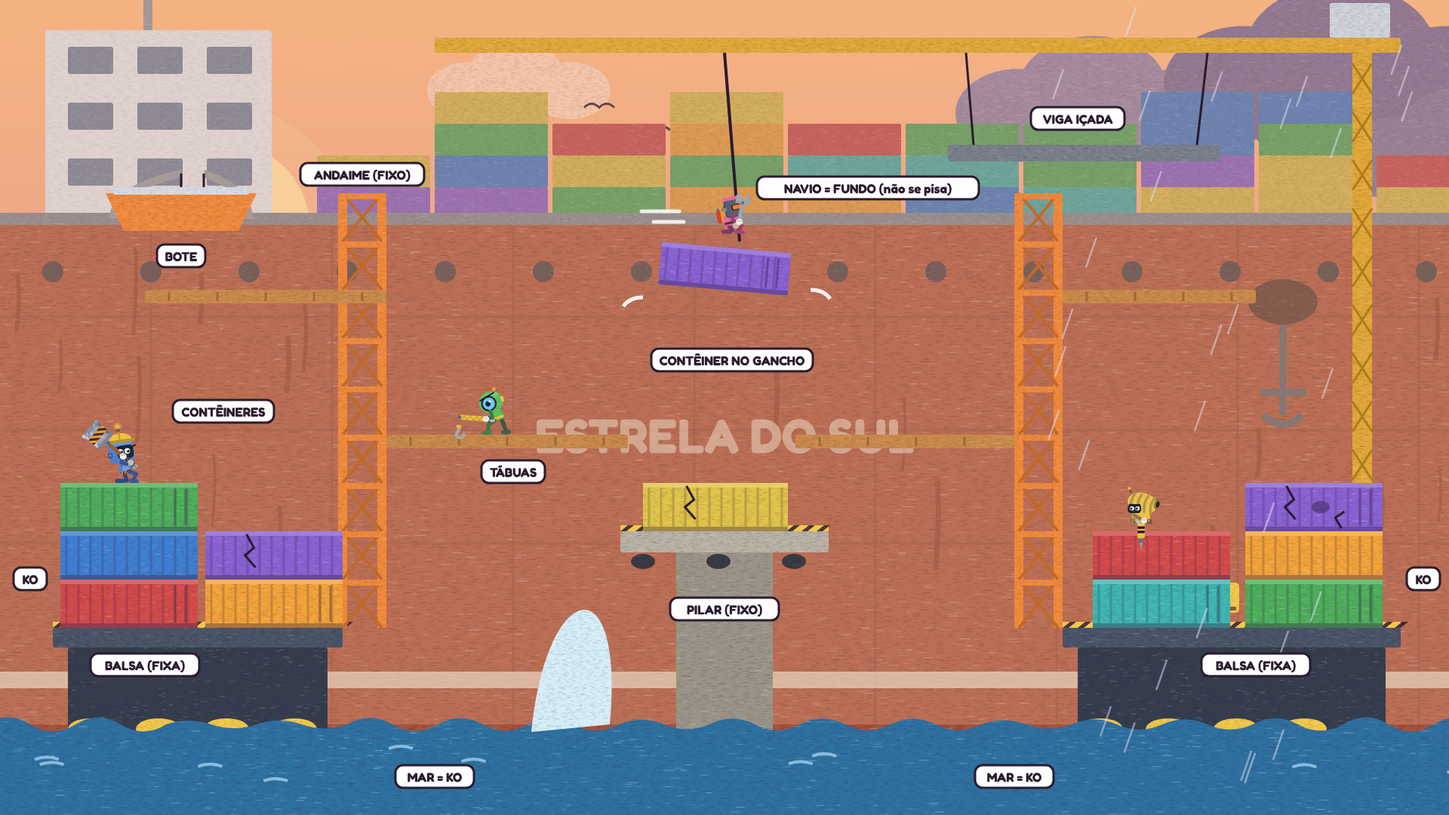
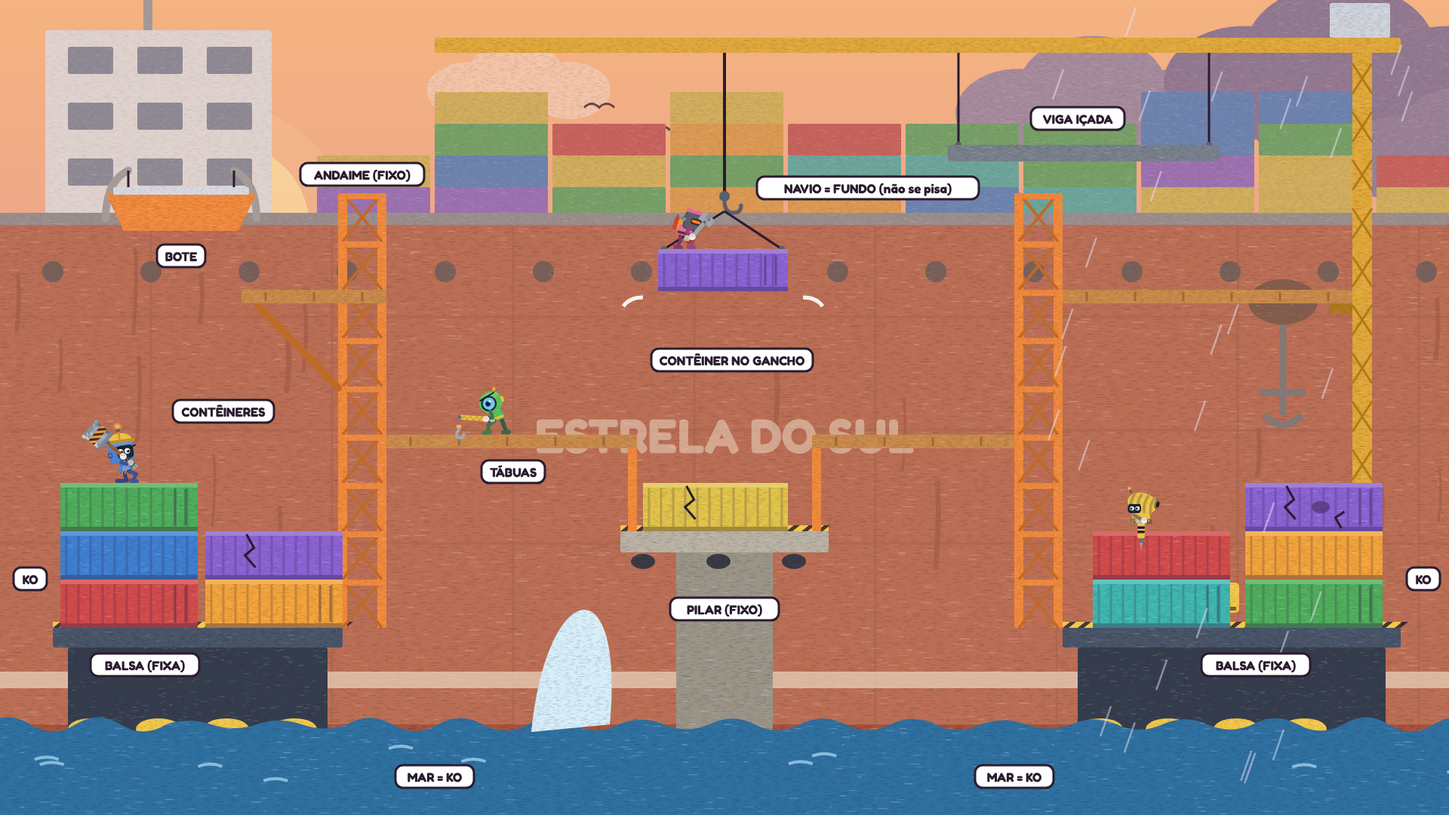
Cargueiro: auditoria de coerência física nas 3 fotografias (cabos nas pontas, apoios, objetos sobre superfícies); regra no manual
Claude-Session: https://claude.ai/code/session_018QUPBQj4sLX3w64QQJCiVt

diff --git a/art/src/cenarios/f2_prancha.py b/art/src/cenarios/f2_prancha.py
@@ -192,7 +192,7 @@ def c1_navio_fundo():
     o += f'<rect x="-40" y="{MAR1 - 70}" width="{W + 80}" height="22" fill="#e9e2d2" opacity="0.7"/>'
     o += f'<text x="{W / 2}" y="600" font-family="Fredoka" font-weight="700" font-size="64" fill="#e9e2d2" text-anchor="middle" opacity="0.55">ESTRELA DO SUL</text>'
     # turcos (braços) do bote presos no costado
-    o += f'<path d="M150,290 q0,-40 90,-60 M330,290 q0,-40 -60,-60" stroke="#8a8f9a" stroke-width="10" fill="none"/>'
+    o += f'<path d="M140,290 q0,-50 30,-64 M340,290 q0,-50 -30,-64" stroke="#8a8f9a" stroke-width="10" fill="none" stroke-linecap="round"/>'
     # névoa: empurra o navio para trás
     o += f'<rect x="0" y="0" width="{W}" height="{MAR1}" fill="#f2b892" opacity="0.28"/>'
     return o
@@ -250,17 +250,20 @@ def c1_palco():
             o += conteiner(x + 10, 13 * T - (j + 1) * T, 3 * T - 10, T, CONT[(k * 3 + j) % len(CONT)], dano if j == n - 1 else 0, porta=j % 2 == 0)
     o += conteiner(13 * T + 20, 11 * T - T, 3 * T, T, CONT[5], 1)
     # tábuas entre as torres e os contêineres (nível 9) e no alto (nível 6)
-    o += tabua(7 * T + 64, 9 * T, 5 * T) + tabua(16 * T + 30, 9 * T, 5 * T - 30)
-    o += tabua(3 * T, 6 * T, 4 * T + 64) + tabua(21 * T + 64, 6 * T, 4 * T)
+    # nível 9: tábua da torre esquerda até o pilar e do pilar até a torre direita — escoras laranja sobre o topo do pilar
+    o += R(13 * T, 9 * T + 18, 12, 11 * T - 9 * T - 18, "#f08a3d", 2, 1.0, dark="#c06a2a") + R(17 * T - 12, 9 * T + 18, 12, 11 * T - 9 * T - 18, "#f08a3d", 2, 1.0, dark="#c06a2a")
+    o += tabua(8 * T, 9 * T, 5 * T + 12) + tabua(17 * T - 12, 9 * T, 4 * T + 12)
+    # nível 6: à esquerda, tábua em consola presa na torre (mão-francesa); à direita, da torre até a torre da grua
+    o += f'<path d="M{7 * T},{6 * T + 130} L{5 * T + 20},{6 * T + 18}" stroke="#c06a2a" stroke-width="10" stroke-linecap="round"/>'
+    o += tabua(5 * T, 6 * T, 2 * T + 64) + tabua(22 * T, 6 * T, 6 * T)
+    o += R(28 * T - 30, 6 * T + 18, 30, 14, "#b07a1e", 2, 0.8)   # suporte na torre da grua
     # contêiner no gancho da grua (balança, nível 6)
-    o += f'<path d="M{15 * T},{1 * T + 6} L{15 * T + 20},{5 * T}" stroke="{INK}" stroke-width="4"/>'
-    o += f'<g transform="rotate(5 {15 * T + 20} {6 * T})">' + conteiner(13 * T + 40, 5 * T + 10, 3 * T - 20, T - 8, CONT[4], 0, True) + "</g>"
-    o += f'<path d="M{13 * T + 20},{6 * T + 10} q-18,0 -26,12 M{16 * T + 50},{6 * T} q18,0 26,12" stroke="#ffffff" stroke-width="5" fill="none" opacity="0.9"/>'
+    o += icado(15 * T, 1 * T + 6, 4 * T + 10, 13 * T + 40, 16 * T + 20, 5 * T + 10) + conteiner(13 * T + 40, 5 * T + 10, 3 * T - 20, T - 8, CONT[4], 0, True)
+    o += f'<path d="M{13 * T + 20},{6 * T + 10} q-18,0 -26,12 M{16 * T + 40},{6 * T + 10} q18,0 26,12" stroke="#ffffff" stroke-width="5" fill="none" opacity="0.9"/>'
     # viga içada lá no alto (nível 3), pendurada por dois cabos da lança
-    o += f'<path d="M{20 * T},{1 * T + 6} L{20 * T + 10},{3 * T} M{25 * T},{1 * T + 6} L{24 * T + 50},{3 * T}" stroke="{INK}" stroke-width="3"/>'
-    o += R(19 * T + 40, 3 * T, 5 * T + 40, 22, "#7a808c", 2, 1.4, dark="#5a606c")
+    o += pendurada(19 * T + 40, 25 * T + 16, 3 * T, 1 * T + 6, 1 * T + 6) + R(19 * T + 40, 3 * T, 5 * T + 40, 22, "#7a808c", 2, 1.4, dark="#5a606c")
     # bote salva-vidas pendurado nos turcos do navio (nível 5)
-    o += f'<path d="M240,230 v26 M270,230 v26" stroke="{INK}" stroke-width="3"/>'
+    o += f'<path d="M170,226 v30 M310,226 v30" stroke="{INK}" stroke-width="3"/>'
     o += PL([(140, 4 * T), (340, 4 * T), (316, 4 * T + 50), (164, 4 * T + 50)], "#f08a3d", 1.4)
     o += R(150, 4 * T - 8, 180, 10, "#d9dce4", 2, 0.8)
     return o
@@ -269,9 +272,9 @@ def c1_palco():
 def c1_atores():
     o = robot("marretao", "pesado_prep", el.COLORS[0], 2 * T + 40, 13 * T - 3 * T)
     o += robot("picareta", "rapido", el.COLORS[1], 10 * T + 20, 9 * T, flip=True)
-    o += robot("chave", "esquiva", el.COLORS[2], 15 * T + 10, 5 * T - 10)
+    o += robot("chave", "parado", el.COLORS[2], 14 * T + 10, 5 * T + 10)
     o += robot("britadeira", "pesado_golpe", el.COLORS[3], 23 * T + 40, 13 * T - 2 * T, flip=True)
-    o += f'<path d="M{15 * T - 60},{5 * T - 40} h-50 M{15 * T - 54},{5 * T - 26} h-40" stroke="#ffffff" stroke-width="5" stroke-linecap="round" opacity="0.85"/>'
+
     return o
 
 
@@ -422,83 +425,127 @@ def rocha2(pts, topo_x0, topo_x1, topo_y, seed=1):
     return o
 
 
+def gancho(x, y):
+    """Gancho de içamento (fim do cabo principal)."""
+    return (f'<circle cx="{x}" cy="{y - 6}" r="7" fill="#5a5f6a"/>'
+            f'<path d="M{x},{y} q0,16 12,16 q10,0 10,-10" stroke="#5a5f6a" stroke-width="5" fill="none" stroke-linecap="round"/>')
+
+
+def icado(x_cabo, y_lanca, y_gancho, x0, x1, y_topo):
+    """Peça içada do jeito certo: cabo principal da lança até o gancho; duas lingas do gancho até as QUINAS da peça."""
+    o = f'<path d="M{x_cabo},{y_lanca} V{y_gancho}" stroke="{INK}" stroke-width="4"/>' + gancho(x_cabo, y_gancho)
+    o += f'<path d="M{x_cabo},{y_gancho + 14} L{x0 + 8},{y_topo} M{x_cabo},{y_gancho + 14} L{x1 - 8},{y_topo}" stroke="{INK}" stroke-width="3"/>'
+    o += f'<circle cx="{x0 + 8}" cy="{y_topo}" r="4" fill="#5a5f6a"/><circle cx="{x1 - 8}" cy="{y_topo}" r="4" fill="#5a5f6a"/>'
+    return o
+
+
+def pendurada(x0, x1, y_peca, y_esq, y_dir, inset=14):
+    """Peça pendurada por DOIS cabos verticais que descem até as pontas dela (com manilhas)."""
+    a, b = x0 + inset, x1 - inset
+    return (f'<path d="M{a},{y_esq} V{y_peca} M{b},{y_dir} V{y_peca}" stroke="{INK}" stroke-width="3"/>'
+            f'<circle cx="{a}" cy="{y_peca}" r="4" fill="#5a5f6a"/><circle cx="{b}" cy="{y_peca}" r="4" fill="#5a5f6a"/>')
+
+
+def caranguejo(x, y):
+    """Caranguejo de pé sobre a superfície y."""
+    return (E(x, y - 7, 12, 8, "#e06a4a", 0.8) + f'<path d="M{x - 12},{y - 8} l-8,-8 M{x + 12},{y - 8} l8,-8 M{x - 8},{y - 2} l-4,4 M{x + 8},{y - 2} l4,4" stroke="#e06a4a" stroke-width="3"/>'
+            + f'<circle cx="{x - 4}" cy="{y - 15}" r="2.5" fill="{INK}"/><circle cx="{x + 4}" cy="{y - 15}" r="2.5" fill="{INK}"/>')
+
+
+def pneu_deitado(x, y):
+    """Pneu deitado sobre a superfície y (visto de lado = elipse achatada)."""
+    return E(x, y - 12, 34, 12, "#2a2a30", 0.8) + E(x, y - 14, 16, 5, "#55555f", 0.5)
+
+
+# ---- medidas do palco da cena 2a (grid de 64)
+R2_ESQ = (1 * T, 6 * T, 12 * T)          # rocha da esquerda: x0, x1 do topo plano, y do topo
+R2_MEIO = (12 * T + 40, 17 * T, 11 * T)   # rocha-arco
+BALSA2 = (23 * T, 6 * T + 20)             # x, largura (convés no nível 13)
+LANCA2 = 1 * T                            # altura da lança da grua
+
+
 def c2_palco():
     o = ""
-    # ---- FIXO: rocha da esquerda (alta), rocha-arco do meio, balsa-guindaste à direita
-    o += rocha2([(40, H), (60, 12 * T + 40), (120, 12 * T), (5 * T + 10, 12 * T - 6), (5 * T + 60, 12 * T + 50), (5 * T + 40, H)], 140, 5 * T, 12 * T, 3)
-    o += rocha2([(12 * T, H), (12 * T + 30, 11 * T + 40), (12 * T + 80, 11 * T), (17 * T + 10, 11 * T - 10), (17 * T + 60, 11 * T + 60), (17 * T + 40, H)], 12 * T + 90, 17 * T, 11 * T, 7)
-    o += f'<path d="M{13 * T + 40},{H} q{1.5 * T},-140 {3 * T},0" fill="#174a5a"/>'   # vão do arco (mar passa por baixo)
-    o += balsa(23 * T, 6 * T + 20)
-    o += R(28 * T, 1 * T, 26, 12 * T, "#e0a83a", 3, 1.6, dark="#b07a1e")
+    rx0, rx1, ry = R2_ESQ
+    mx0, mx1, my = R2_MEIO
+    bx, bw = BALSA2
+    # ---- FIXO: rochas com topo plano medido (o que se pisa é o topo)
+    o += rocha2([(rx0 - 40, H), (rx0 - 20, ry + 50), (rx0 + 10, ry), (rx1 - 10, ry), (rx1 + 30, ry + 60), (rx1 + 10, H)], rx0 + 10, rx1 - 10, ry, 3)
+    o += rocha2([(mx0 - 30, H), (mx0 - 10, my + 50), (mx0 + 20, my), (mx1 - 20, my), (mx1 + 20, my + 60), (mx1 + 10, H)], mx0 + 20, mx1 - 20, my, 7)
+    o += f'<path d="M{mx0 + 60},{H} q{(mx1 - mx0 - 120) / 2},-150 {mx1 - mx0 - 120},0" fill="#174a5a"/>'   # vão do arco
+    o += balsa(bx, bw)
+    tx = bx + bw - 34                     # torre da grua presa na ponta direita da balsa
+    o += R(tx, LANCA2, 26, 13 * T - LANCA2, "#e0a83a", 3, 1.6, dark="#b07a1e")
     for k in range(11):
-        y = T + 20 + k * 64
-        o += f'<path d="M{28 * T},{y} l26,40 M{28 * T + 26},{y} l-26,40" stroke="#b07a1e" stroke-width="3"/>'
-    o += R(3 * T, 1 * T - 14, 26 * T, 20, "#e0a83a", 3, 1.4) + R(28 * T - 30, 1 * T - 60, 80, 46, "#cfd3da", 3, 1.2)
-    o += sign(23 * T + 30, 13 * T - 60, "BOTA-ABAIXO", 170)
-    # contêiner pendurado na ponta da lança (nível 5, esquerda) — QUEBRA, balança
-    o += f'<path d="M{5 * T},{1 * T + 6} L{4 * T + 40},{4 * T + 20} M{7 * T},{1 * T + 6} L{7 * T + 10},{4 * T + 20}" stroke="{INK}" stroke-width="3"/>'
-    o += f'<g transform="rotate(-4 {6 * T} {5 * T})">' + conteiner(4 * T + 20, 4 * T + 20, 3 * T + 10, T - 8, CONT[5], 0, True) + "</g>"
-    # tábua do meio (nível 9) ligando o arco à balsa, pendurada da lança por dois cabos
-    o += f'<path d="M{18 * T + 30},{1 * T + 6} V{9 * T} M{22 * T + 30},{1 * T + 6} V{9 * T}" stroke="{INK}" stroke-width="3"/>'
-    o += tabua(18 * T, 9 * T, 5 * T)
-    # coqueiro torto e boia de sinalização na rocha da esquerda
-    o += f'<path d="M{1 * T + 40},{12 * T} q-20,-120 50,-230" stroke="#8a6b4f" stroke-width="16" fill="none"/>'
+        y = LANCA2 + 20 + k * 64
+        o += f'<path d="M{tx},{y} l26,40 M{tx + 26},{y} l-26,40" stroke="#b07a1e" stroke-width="3"/>'
+    o += R(3 * T, LANCA2 - 14, tx - 3 * T + 40, 20, "#e0a83a", 3, 1.4) + R(tx - 30, LANCA2 - 60, 80, 46, "#cfd3da", 3, 1.2)
+    o += f'<path d="M{tx + 13},{LANCA2 - 60} L{3 * T + 20},{LANCA2 - 14}" stroke="#b07a1e" stroke-width="3"/>'   # tirante da lança
+    o += sign(bx + 30, 13 * T - 60, "BOTA-ABAIXO", 170)
+    # coqueiro enraizado no topo da rocha da esquerda (quina esquerda)
+    o += f'<path d="M{rx0 + 24},{ry} q-26,-120 40,-230" stroke="#8a6b4f" stroke-width="16" fill="none"/>'
     for a in range(5):
         ang = -2.7 + a * 0.5
-        o += f'<path d="M{1 * T + 90},{8 * T + 26} q{math.cos(ang) * 50},{math.sin(ang) * 26 - 26} {math.cos(ang) * 110},{math.sin(ang) * 56 + 20}" stroke="#4f9a52" stroke-width="14" fill="none" stroke-linecap="round"/>'
-    # ---- QUEBRA: contêineres tortos na rocha da esquerda (um aberto derramando pneus e caixas)
-    o += f'<g transform="rotate(-3 {3 * T} {12 * T})">' + conteiner(2 * T, 11 * T, 3 * T, T, CONT[2], 0, True) + "</g>"
-    o += f'<g transform="rotate(6 {3 * T} {10 * T})">' + conteiner(2 * T + 20, 10 * T - 4, 3 * T - 10, T, CONT[0], 1) + "</g>"
-    o += R(5 * T - 30, 11 * T - 6, 40, 70, "#2a2a30", 3, 0.8)   # porta aberta
-    for k, (dx, dy) in enumerate([(5 * T + 30, 12 * T - 30), (5 * T + 70, 12 * T - 10), (5 * T + 10, 12 * T - 8)]):
-        o += E(dx, dy, 18, 18, "#2a2a30", 0.8) + E(dx, dy, 8, 8, "#5a5a64", 0.5) if k < 2 else R(dx, dy - 30, 40, 30, "#c98a4b", 3, 0.8)
-    # ---- QUEBRA: bote virado boiando + jangada de paletes (balançam com a maré)
-    o += f'<g transform="rotate(4 {8 * T} {MAR2})">' + PL([(6 * T + 40, MAR2 - 44), (9 * T + 20, MAR2 - 44), (9 * T, MAR2 + 6), (7 * T, MAR2 + 6)], "#f08a3d", 1.4)
-    o += R(6 * T + 40, MAR2 - 50, 2 * T + 44, 10, "#d9dce4", 2, 0.8) + "</g>"
-    o += f'<g transform="rotate(-5 {10 * T} {MAR2})">'
+        o += f'<path d="M{rx0 + 64},{ry - 230} q{math.cos(ang) * 50},{math.sin(ang) * 26 - 26} {math.cos(ang) * 110},{math.sin(ang) * 56 + 20}" stroke="#4f9a52" stroke-width="14" fill="none" stroke-linecap="round"/>'
+    # ---- QUEBRA: pilha de 2 contêineres na rocha da esquerda; carga derramada (pneus e caixa) NO TOPO da rocha, ao lado
+    c_x = rx0 + 50
+    o += conteiner(c_x, ry - T, 3 * T, T, CONT[2], 0, True)
+    o += conteiner(c_x + 16, ry - 2 * T, 3 * T - 16, T, CONT[0], 1)
+    o += f'<rect x="{c_x + 3 * T - 34}" y="{ry - T + 8}" width="28" height="{T - 16}" fill="#1e1e24"/>'   # portas abertas (vão escuro)
+    o += pneu_deitado(c_x + 3 * T + 30, ry) + pneu_deitado(c_x + 3 * T + 30, ry - 24)
+    # ---- QUEBRA: bote virado e jangada boiando no vão entre as rochas
+    o += PL([(6 * T + 50, MAR2 - 44), (9 * T + 10, MAR2 - 44), (8 * T + 50, MAR2 + 6), (7 * T, MAR2 + 6)], "#f08a3d", 1.4)
+    o += R(6 * T + 50, MAR2 - 50, 2 * T + 24, 10, "#d9dce4", 2, 0.8)
     for k in range(3):
         o += R(9 * T + 50 + k * 34, MAR2 - 28, 30, 30, "#c98a4b", 2, 0.8)
-    o += R(9 * T + 40, MAR2 - 34, 110, 10, "#b07a3e", 2, 0.8) + "</g>"
-    # ---- QUEBRA: pedaço do convés (com guarda-corpo) apoiado no arco — nível 8; escoras dobradas
-    o += f'<g transform="rotate(-5 {15 * T} {8 * T})">'
-    o += R(11 * T + 30, 8 * T, 7 * T, 26, "#6b6f7a", 2, 1.6, dark="#4a4f5a") + R(11 * T + 30, 8 * T + 26, 7 * T, 30, "#9a4a38", 2, 1.4, dark="#7a3424")
-    o += zebra(11 * T + 30, 8 * T - 6, 7 * T, 8)
-    for x in range(11 * T + 40, 18 * T + 30, 44):
-        o += f'<path d="M{x},{8 * T} v-34" stroke="#e9e2d2" stroke-width="4"/>'
-    o += f'<path d="M{11 * T + 30},{8 * T - 30} H{18 * T + 30}" stroke="#e9e2d2" stroke-width="4"/>'
-    o += E(16 * T, 8 * T - 18, 18, 14, "#5a5f6a", 0.8)   # cabrestante
-    o += "</g>"
-    o += f'<path d="M{13 * T},{8 * T + 60} L{13 * T + 30},{11 * T} M{16 * T + 40},{8 * T + 50} L{16 * T + 10},{11 * T - 6}" stroke="#4a2620" stroke-width="14"/>'
-    # ---- QUEBRA: mastro-ponte (dos contêineres da esquerda até o pedaço do convés)
-    o += f'<g transform="rotate(-10 {5 * T} {10 * T})">' + R(5 * T, 10 * T - 40, 7 * T, 18, "#9a9aa8", 3, 1.4, dark="#6b6b7a") + "</g>"
-    # ---- QUEBRA: rede de carga no gancho (nível 5): caixas dentro, balança
-    o += f'<path d="M{17 * T - 4 * T},{1 * T + 6} L{17 * T + 10 - 4 * T},{4 * T}" stroke="{INK}" stroke-width="4"/>'
-    o += f'<g transform="translate({-4 * T},0) rotate(6 {17 * T} {5 * T})">'
+    o += R(9 * T + 40, MAR2 - 34, 110, 10, "#b07a3e", 2, 0.8)
+    # ---- QUEBRA: pedaço do convés (nível 8) sobre DUAS escoras que pisam no topo da rocha-arco
+    dk0, dk1, dky = 11 * T + 20, 18 * T + 20, 8 * T
+    o += R(mx0 + 60, dky + 56, 20, my - dky - 56, "#4a2620", 2, 1.0) + R(mx1 - 80, dky + 56, 20, my - dky - 56, "#4a2620", 2, 1.0)
+    o += R(dk0, dky, dk1 - dk0, 26, "#6b6f7a", 2, 1.6, dark="#4a4f5a") + R(dk0, dky + 26, dk1 - dk0, 30, "#9a4a38", 2, 1.4, dark="#7a3424")
+    o += zebra(dk0, dky - 6, dk1 - dk0, 8)
+    for x in range(int(dk0 + 10), int(dk1), 44):
+        o += f'<path d="M{x},{dky - 6} v-30" stroke="#e9e2d2" stroke-width="4"/>'
+    o += f'<path d="M{dk0},{dky - 30} H{dk1}" stroke="#e9e2d2" stroke-width="4"/>'
+    o += E(16 * T + 30, dky - 14, 18, 14, "#5a5f6a", 0.8)   # cabrestante
+    # ---- QUEBRA: mastro-ponte com as DUAS pontas apoiadas: topo do contêiner de cima → convés
+    ax, ay = c_x + 3 * T - 30, ry - 2 * T
+    bx2, by2 = dk0 + 30, dky
+    ang = math.degrees(math.atan2(by2 - ay, bx2 - ax))
+    comp = math.hypot(bx2 - ax, by2 - ay)
+    o += f'<g transform="translate({ax},{ay}) rotate({ang:.2f})">' + R(0, -18, comp, 18, "#9a9aa8", 3, 1.4, dark="#6b6b7a") + "</g>"
+    # ---- QUEBRA: içados na lança (contêiner à esquerda, rede de carga no centro)
+    cx0, cx1, cy = 4 * T, 7 * T, 5 * T
+    o += icado((cx0 + cx1) / 2, LANCA2 + 6, cy - 70, cx0, cx1, cy) + conteiner(cx0, cy, cx1 - cx0, T - 8, CONT[5], 0, True)
+    nx0, nx1, ny = 12 * T, 15 * T, 4 * T + 40
+    o += f'<path d="M{(nx0 + nx1) / 2},{LANCA2 + 6} V{ny - 50}" stroke="{INK}" stroke-width="4"/>' + gancho((nx0 + nx1) / 2, ny - 50)
     for k in range(3):
-        o += R(15 * T + 50 + k * 66, 4 * T + 34, 60, 50, "#c98a4b" if k != 1 else "#b07a3e", 3, 1.0)
-    o += f'<path d="M{15 * T + 40},{4 * T + 20} Q{17 * T},{5 * T + 70} {18 * T + 50},{4 * T + 20}" stroke="#5a4a3a" stroke-width="4" fill="none"/>'
+        o += R(nx0 + 10 + k * 62, ny, 58, 50, "#c98a4b" if k != 1 else "#b07a3e", 3, 1.0)
+    o += f'<path d="M{nx0},{ny - 6} Q{(nx0 + nx1) / 2},{ny + 110} {nx1},{ny - 6}" stroke="#5a4a3a" stroke-width="4" fill="none"/>'
+    o += f'<path d="M{(nx0 + nx1) / 2},{ny - 36} L{nx0},{ny - 6} M{(nx0 + nx1) / 2},{ny - 36} L{nx1},{ny - 6}" stroke="#5a4a3a" stroke-width="3"/>'
     for k in range(6):
-        o += f'<path d="M{15 * T + 50 + k * 34},{4 * T + 24} l20,56" stroke="#5a4a3a" stroke-width="3"/>'
-    o += "</g>"
-    o += f'<path d="M{11 * T + 20},{5 * T + 10} q-16,0 -24,12 M{14 * T + 70},{5 * T} q16,0 24,12" stroke="#ffffff" stroke-width="5" fill="none" opacity="0.9"/>'
-    # ---- QUEBRA: contêineres na balsa + tábuas da torre (nível 5)
-    o += conteiner(23 * T + 30, 12 * T, 3 * T, T, CONT[1], 0, True) + conteiner(26 * T + 20, 12 * T, 2 * T + 20, T, CONT[3], 1)
-    o += conteiner(23 * T + 50, 11 * T, 3 * T - 10, T, CONT[6], 2)
-    o += tabua(21 * T, 5 * T, 7 * T - 10)
-    o += f'<path d="M{21 * T + 20},{1 * T + 6} V{5 * T}" stroke="{INK}" stroke-width="3"/>'
-    # vida: caranguejos e gaivota pousada
-    for x, y in [(3 * T + 40, 10 * T - 4), (14 * T + 20, 11 * T - 10)]:
-        o += E(x, y, 12, 8, "#e06a4a", 0.8) + f'<path d="M{x - 12},{y} l-8,-8 M{x + 12},{y} l8,-8" stroke="#e06a4a" stroke-width="3"/>'
-    o += gaivota(26 * T, 11 * T, 1.2, True)
+        o += f'<path d="M{nx0 + 8 + k * 32},{ny - 4} l18,56" stroke="#5a4a3a" stroke-width="3"/>'
+    # ---- QUEBRA: tábuas penduradas por dois cabos nas PONTAS — nível 9 (arco → balsa) e nível 5 (alto à direita)
+    t1x0, t1x1 = 18 * T + 20, 23 * T - 10
+    o += pendurada(t1x0, t1x1, 9 * T, LANCA2 + 6, LANCA2 + 6) + tabua(t1x0, 9 * T, t1x1 - t1x0)
+    t2x0, t2x1 = 21 * T, tx - 10
+    o += pendurada(t2x0, t2x1, 5 * T, LANCA2 + 6, LANCA2 + 6) + tabua(t2x0, 5 * T, t2x1 - t2x0)
+    # ---- QUEBRA: contêineres sobre o convés da balsa (2 embaixo, 1 em cima), sem invadir a torre
+    o += conteiner(bx + 20, 12 * T, 3 * T, T, CONT[1], 0, True) + conteiner(bx + 20 + 3 * T + 6, 12 * T, tx - (bx + 20 + 3 * T + 6) - 8, T, CONT[3], 1)
+    o += conteiner(bx + 40, 11 * T, 3 * T - 10, T, CONT[6], 2)
+    # ---- vida: caranguejos e gaivota pousados em superfícies
+    o += caranguejo(mx0 + 120, my) + caranguejo(17 * T - 40, 8 * T - 6)
+    o += gaivota(bx + 40 + 3 * T - 30, 11 * T, 1.2, True)
     return o
 
 
 def c2_atores():
-    o = robot("pa", "pesado_prep", el.COLORS[4], 3 * T, 10 * T - 4)
-    o += robot("marretao", "rapido", el.COLORS[0], 14 * T + 20, 8 * T + 4)
-    o += robot("chave", "esquiva", el.COLORS[2], 13 * T, 4 * T + 30, flip=True)
-    o += robot("britadeira", "pesado_golpe", el.COLORS[3], 7 * T + 60, MAR2 - 46)
-    o += f'<path d="M{12 * T + 20},{4 * T} h-50 M{12 * T + 26},{4 * T + 14} h-40" stroke="#ffffff" stroke-width="5" stroke-linecap="round" opacity="0.85"/>'
+    rx0, rx1, ry = R2_ESQ
+    o = robot("pa", "pesado_prep", el.COLORS[4], rx0 + 50 + 70, ry - 2 * T)                 # em cima do contêiner de cima
+    o += robot("marretao", "rapido", el.COLORS[0], 14 * T + 20, 8 * T - 6)                  # no convés (por cima da fita)
+    o += robot("chave", "esquiva", el.COLORS[2], 13 * T + 40, 4 * T + 40, flip=True)        # nas caixas da rede
+    o += robot("britadeira", "pesado_golpe", el.COLORS[3], 7 * T + 70, MAR2 - 50)           # na quilha do bote virado
+    o += f'<path d="M{13 * T - 30},{4 * T + 10} h-50 M{13 * T - 24},{4 * T + 24} h-40" stroke="#ffffff" stroke-width="5" stroke-linecap="round" opacity="0.85"/>'
     return o
 
 
@@ -511,9 +558,10 @@ def c2_frente():
     o += f'<path d="M0,{MAR2} ' + "".join("q30,-10 60,0 " for _ in range(33)) + '" stroke="#ffffff" stroke-width="5" fill="none" opacity="0.95"/>'
     o += f'<path d="M0,{13 * T} H{W}" stroke="#ffffff" stroke-width="3" stroke-dasharray="16 12" opacity="0.85"/>'
     o += f'<text x="{W - 30}" y="{13 * T - 10}" font-family="Fredoka" font-weight="700" font-size="18" fill="#ffffff" text-anchor="end">maré alta</text>'
-    o += tag(3 * T, 13 * T + 50, "ROCHA (FIXA)") + tag(15 * T, 12 * T + 40, "ROCHA-ARCO (FIXA)") + tag(26 * T, 13 * T + 50, "BALSA (FIXA)")
-    o += tag(6 * T, 9 * T - 30, "CONTÊINER ABERTO") + tag(9 * T, 9 * T + 70, "MASTRO-PONTE") + tag(14 * T + 40, 9 * T + 30, "PEDAÇO DO CONVÉS")
-    o += tag(8 * T, MAR2 - 80, "BOTE VIRADO") + tag(10 * T + 60, MAR2 + 50, "JANGADA") + tag(15 * T + 60, 5 * T + 60, "REDE NO GANCHO") + tag(24 * T + 40, 4 * T + 40, "TÁBUAS") + tag(6 * T, 6 * T + 10, "CONTÊINER PENDURADO") + tag(20 * T + 40, 9 * T + 50, "TÁBUA")
+    o += tag(3 * T + 20, 13 * T + 40, "ROCHA (FIXA)") + tag(15 * T, 12 * T + 40, "ROCHA-ARCO (FIXA)") + tag(26 * T, 14 * T + 10, "BALSA (FIXA)")
+    o += tag(5 * T + 10, 12 * T + 34, "CARGA DERRAMADA") + tag(9 * T + 30, 9 * T + 40, "MASTRO-PONTE") + tag(14 * T + 40, 9 * T + 20, "PEDAÇO DO CONVÉS")
+    o += tag(8 * T, MAR2 - 90, "BOTE VIRADO") + tag(10 * T + 30, MAR2 + 50, "JANGADA") + tag(13 * T + 32, 6 * T + 30, "REDE DE CARGA")
+    o += tag(5 * T + 32, 6 * T + 20, "CONTÊINER IÇADO") + tag(20 * T + 40, 9 * T + 50, "TÁBUA") + tag(24 * T + 20, 5 * T + 50, "TÁBUA ALTA")
     o += tag(5 * T, H - 34, "MAR FUNDO = KO") + tag(20 * T, H - 34, "MAR FUNDO = KO") + tag(940, 186, "NAVIO PARTIDO = FUNDO")
     return o
 
@@ -643,24 +691,30 @@ def c3_palco():
     o += tambores(1 * T + 20, 12 * T - 14, 2)
     o += E(4 * T + 10, 12 * T - 60, 54, 46, "#cfc6b0", 1.6, dark="#a89c82") + E(4 * T + 30, 12 * T - 70, 10, 6, "#8a826e", 0.6)
     o += PL([(3 * T + 30, 12 * T - 96), (3 * T + 60, 12 * T - 130), (4 * T + 20, 12 * T - 106), (4 * T + 60, 12 * T - 138), (4 * T + 80, 12 * T - 96)], OURO, 1.0)   # coroa
-    o += coluna2(6 * T - 40, 9 * T + 34, 12 * T - 14) + laje2(5 * T + 10, 9 * T, 6 * T + 30) + alga(7 * T, 9 * T + 34, 2, 110)
+    # laje-ponte (nível 9): coluna no pilar esquerdo + coluna curta na quina do pilar central (as duas pontas apoiadas)
+    o += coluna2(6 * T - 40, 9 * T + 34, 12 * T - 14) + coluna2(12 * T + 4, 9 * T + 34, 11 * T - 14, larg=40)
+    o += laje2(5 * T + 10, 9 * T, 12 * T + 54 - (5 * T + 10)) + alga(7 * T, 9 * T + 34, 2, 110)
     # ---- QUEBRA (esquerda alta): coluna no pilar segura uma laje no nível 6
     o += coluna2(1 * T + 30, 6 * T + 34, 12 * T - 14 - 104) + laje2(0 * T + 30, 6 * T, 5 * T) + alga(2 * T, 6 * T + 34, 2, 90)
     # ---- QUEBRA (centro alto): colunas curtas sobre a laje do centro seguram uma laje no nível 4
     o += coluna2(13 * T + 10, 4 * T + 34, 7 * T) + coluna2(16 * T + 20, 4 * T + 34, 7 * T) + laje2(12 * T + 30, 4 * T, 5 * T)
     # ---- QUEBRA (direita, meio): bloco de mármore pendurado na corrente da proa (nível 9) e prancha do navio presa no alto (nível 3)
-    o += f'<path d="M{21 * T + 40},{2 * T + 40} L{21 * T + 30},{9 * T}" stroke="#5a5f6a" stroke-width="6" stroke-dasharray="12 6"/>'
-    o += f'<g transform="rotate(-5 {21 * T + 30} {9 * T})">' + R(20 * T, 9 * T, 3 * T, 40, MARM, 4, 1.6, dark=MARM_D) + R(20 * T, 9 * T + 30, 3 * T, 10, OURO, 2, 0.6) + "</g>"
-    o += f'<path d="M{18 * T + 20},{1 * T + 30} L{18 * T + 30},{3 * T} M{21 * T + 40},{1 * T + 50} L{21 * T + 30},{3 * T}" stroke="#5a5f6a" stroke-width="4"/>'
-    o += f'<g transform="rotate(4 {20 * T} {3 * T})">' + tabua(17 * T + 60, 3 * T, 4 * T + 20) + "</g>"
+    # bloco de mármore pendurado pela corrente que sai da PONTA da proa (1451,136) — sem girar
+    px, py = 1451, 136
+    o += f'<path d="M{px},{py} V{9 * T}" stroke="#5a5f6a" stroke-width="6" stroke-dasharray="12 6"/>' + gancho(px, 9 * T - 6)
+    o += f'<path d="M{px},{9 * T + 8} L{px - 80},{9 * T + 20} M{px},{9 * T + 8} L{px + 80},{9 * T + 20}" stroke="#5a5f6a" stroke-width="4"/>'
+    o += R(px - 96, 9 * T + 20, 192, 40, MARM, 4, 1.6, dark=MARM_D) + R(px - 96, 9 * T + 50, 192, 10, OURO, 2, 0.6)
+    # prancha do navio pendurada por duas correntes presas na ARMAÇÃO DOURADA da cúpula (pontos medidos no arco)
+    o += pendurada(1146, 1414, 3 * T, 51, 144, inset=14) + tabua(1146, 3 * T, 268)
     # ---- QUEBRA (centro): duas colunas seguram a laje (nível 7); concha-trampolim no pilar
-    o += coluna2(12 * T + 40, 7 * T + 34, 11 * T - 14, rachada=True) + coluna2(17 * T - 90, 7 * T + 34, 11 * T - 14)
+    o += coluna2(12 * T + 70, 7 * T + 34, 11 * T - 14, rachada=True) + coluna2(17 * T - 90, 7 * T + 34, 11 * T - 14)
     o += laje2(11 * T + 20, 7 * T, 7 * T) + alga(16 * T, 7 * T + 34, 3, 120)
     o += E(15 * T, 11 * T - 30, 48, 18, "#f2a7c3", 1.2) + f'<path d="M{15 * T - 48},{11 * T - 34} a48,40 0 0 1 96,-28" fill="#f7c6d8" stroke="#d1708f" stroke-width="4"/>'
     o += E(15 * T, 11 * T - 36, 10, 8, "#ffffff", 0.6)
     # ---- QUEBRA: lustre dourado pendurado na cúpula por corrente (nível 4), balança
-    o += f'<path d="M{10 * T},0 L{10 * T + 20},{3 * T + 30}" stroke="{OURO_D}" stroke-width="5" stroke-dasharray="10 6"/>'
-    o += f'<g transform="rotate(6 {10 * T + 20} {4 * T})">'
+    o += f'<path d="M660,79 L{10 * T + 20},{3 * T + 30}" stroke="{OURO_D}" stroke-width="5" stroke-dasharray="10 6"/>' + f'<circle cx="660" cy="79" r="8" fill="{OURO}"/>'
+    o += f'<path d="M{10 * T + 20},{3 * T + 30} L{8 * T + 60},{4 * T} M{10 * T + 20},{3 * T + 30} L{11 * T + 40},{4 * T}" stroke="{OURO_D}" stroke-width="4"/>'
+    o += f'<g transform="rotate(0 {10 * T + 20} {4 * T})">'
     o += R(8 * T + 40, 4 * T, 3 * T + 20, 18, OURO, 3, 1.2, dark=OURO_D)
     o += f'<path d="M{8 * T + 50},{4 * T + 18} Q{10 * T + 20},{5 * T + 40} {11 * T + 50},{4 * T + 18}" stroke="{OURO}" stroke-width="8" fill="none"/>'
     for k in range(5):
@@ -668,13 +722,14 @@ def c3_palco():
     o += "</g>"
     o += f'<path d="M{8 * T + 20},{4 * T + 30} q-16,0 -24,12 M{11 * T + 80},{4 * T + 10} q16,0 24,12" stroke="#ffffff" stroke-width="5" fill="none" opacity="0.9"/>'
     # ---- QUEBRA (direita, alagada): contêiner do navio derramando moedas + baú; coluna alta com laje (nível 6)
-    o += f'<g transform="rotate(-6 {26 * T} {12 * T})">' + conteiner(24 * T + 30, 12 * T - 14 - T, 3 * T, T, CONT[3], 2, True) + "</g>"
-    for k in range(14):
-        o += E(24 * T + 20 + k * 12, 12 * T - 18 - (k % 3) * 8, 8, 4, OURO, 0.5)
-    o += R(27 * T + 20, 12 * T - 60, 70, 46, "#8a5a3a", 4, 1.0) + R(27 * T + 20, 12 * T - 60, 70, 12, OURO, 2, 0.6)
-    o += coluna2(28 * T - 10, 6 * T + 34, 12 * T - 60) + laje2(22 * T + 20, 6 * T, 7 * T) + alga(24 * T, 6 * T + 34, 3, 130)
-    # ---- QUEBRA: corrente do navio pendurada da proa (decoração) e águas-vivas brilhando
-    o += f'<path d="M{23 * T},{3 * T} q-20,120 10,220" stroke="#5a5f6a" stroke-width="6" fill="none" stroke-dasharray="12 6"/>'
+    # pilar da direita: coluna E e coluna D seguram a laje alta (nível 6); entre elas, o contêiner com o baú em cima e moedas
+    o += coluna2(24 * T + 14, 6 * T + 34, 12 * T - 14) + coluna2(28 * T + 14, 6 * T + 34, 12 * T - 14)
+    o += laje2(23 * T, 6 * T, 29 * T + 40 - 23 * T) + alga(25 * T + 20, 6 * T + 34, 3, 130)
+    o += conteiner(25 * T, 12 * T - 14 - T, 2 * T + 40, T, CONT[3], 2, True)
+    o += R(25 * T + 30, 12 * T - 14 - T - 46, 70, 46, "#8a5a3a", 4, 1.0) + R(25 * T + 30, 12 * T - 14 - T - 46, 70, 12, OURO, 2, 0.6)
+    for k in range(9):   # moedas caídas no topo do pilar
+        o += E(27 * T + 50 + k * 10, 12 * T - 18 - (k % 3) * 6, 8, 4, OURO, 0.5)
+    # ---- águas-vivas brilhando (nadam: não precisam de apoio)
     for x, y, c in [(3 * T, 4 * T, "#ff9ad8"), (20 * T, 3 * T, "#9ad8ff"), (7 * T, 6 * T + 20, "#c8a0ff")]:
         o += f'<circle cx="{x}" cy="{y}" r="40" fill="{c}" opacity="0.18"/>' + f'<path d="M{x - 22},{y} a22,18 0 0 1 44,0 Z" fill="{c}" opacity="0.85"/>'
         for j in range(4):
@@ -685,8 +740,8 @@ def c3_palco():
 def c3_grua():
     """Grua submarina da equipe (identidade da obra) presa no pilar da esquerda, com holofote."""
     x = 5 * T + 20
-    o = R(x, 1 * T + 40, 22, 12 * T - 14 - 1 * T - 40 - 104, "#e0a83a", 3, 1.4, dark="#b07a1e")
-    for k in range(6):
+    o = R(x, 1 * T + 40, 22, (12 * T - 14) - (1 * T + 40), "#e0a83a", 3, 1.4, dark="#b07a1e")
+    for k in range(9):
         y = 1 * T + 60 + k * 52
         o += f'<path d="M{x},{y} l22,30 M{x + 22},{y} l-22,30" stroke="#b07a1e" stroke-width="3"/>'
     o += R(x - 220, 1 * T + 26, 260, 18, "#e0a83a", 3, 1.2) + f'<circle cx="{x - 200}" cy="{1 * T + 50}" r="12" fill="#fff4c8"/>'
@@ -715,8 +770,8 @@ def c3_frente():
     o += tag(3 * T + 30, 13 * T + 20, "PILAR (FIXO)") + tag(15 * T, 12 * T + 50, "PILAR (FIXO)") + tag(26 * T + 30, 13 * T + 20, "PILAR (FIXO)")
     o += tag(17 * T + 60, 7 * T + 70, "LAJE ENTALHADA") + tag(9 * T, 10 * T + 10, "LAJE-PONTE") + tag(23 * T + 40, 5 * T + 40, "LAJE ALTA")
     o += tag(10 * T + 20, 5 * T + 50, "LUSTRE DOURADO") + tag(2 * T + 40, 5 * T + 30, "LAJE ALTA") + tag(15 * T, 3 * T + 30, "LAJE DO TOPO")
-    o += tag(21 * T + 40, 10 * T - 4, "BLOCO NA CORRENTE") + tag(19 * T + 60, 2 * T + 10, "PRANCHA DO NAVIO") + tag(2 * T, 10 * T + 10, "TAMBORES") + tag(4 * T + 40, 12 * T + 40, "CABEÇA DE ESTÁTUA")
-    o += tag(15 * T, 12 * T - 100, "CONCHA") + tag(26 * T + 20, 11 * T + 10, "MOEDAS E BAÚ") + tag(25 * T + 40, 2 * T + 60, "PROA FUROU A CÚPULA")
+    o += tag(1451, 10 * T + 20, "BLOCO NA CORRENTE") + tag(1280, 2 * T + 30, "PRANCHA DO NAVIO") + tag(2 * T, 10 * T + 10, "TAMBORES") + tag(4 * T + 40, 12 * T + 40, "CABEÇA DE ESTÁTUA")
+    o += tag(15 * T, 12 * T - 100, "CONCHA") + tag(26 * T + 20, 12 * T + 50, "BAÚ E MOEDAS") + tag(25 * T + 40, 2 * T + 60, "PROA FUROU A CÚPULA")
     o += tag(25 * T + 20, 9 * T + 50, "ALAGANDO") + tag(9 * T, H - 34, "FENDA = KO") + tag(21 * T, H - 34, "FENDA = KO")
     return o
 

diff --git a/docs/manuais/derruba/mapa.md b/docs/manuais/derruba/mapa.md
@@ -100,6 +100,10 @@ Para ver: `ROTA=moderada … -- --fase=DIR`. Última cena: sem transição. Regr
 - [ ] Em toda etapa, **cair do piso em qualquer ponto = KO, rápido**. Palco sobre o vazio, vãos abertos e visíveis. Nada de
       bordas pretas que matam, paredes até o teto ou poço com parede (o robô se agarrava na fresta).
 - [ ] Saída para KO em **pelo menos 2 lados** em cada etapa (`--so=bots` termina as rodadas).
+- [ ] **Coerência física, peça por peça** (reprovado em 2026-11-28 no Cargueiro): peça pendurada = cabo até um gancho e duas lingas
+      até as QUINAS (ou dois cabos verticais nas PONTAS); peça apoiada = as duas pontas tocam algo (torre, coluna, escora, rocha) — senão
+      ponha escora/mão-francesa; objeto solto (pneu, caixa, bicho, robô) fica EM CIMA de uma superfície; nada girado "por estilo" com
+      o cabo errado. Meça no grid antes de desenhar.
 - [ ] **Palco = plataformas.** A estrutura grande do tema (prédio, navio, templo) é MOLDURA de fundo e não se pisa; a luta é numa
       estrutura aberta: pouca parte fixa (balsas, pilares, torres) e o resto plataforma destrutível (contêineres, tábuas, vigas, peças penduradas).
 - [ ] Renascimento só em **chão firme**; nada de pilar em cima de peça que quebra.
@@ -127,6 +131,7 @@ Para ver: `ROTA=moderada … -- --fase=DIR`. Última cena: sem transição. Regr
 | Erro | Causa | Regra |
 |---|---|---|
 | Mapa feito direto no código, sem pensar a cena | não havia cartilha nem catálogo | ordem do §1: catálogo → prancha → código |
+| Fase 2 (Cargueiro): cabos que não chegavam nas pontas, tábuas com uma ponta no ar, pneus/caranguejo flutuando, coluna em cima de baú | joguei elementos "no olho", sem medir apoio | regra de coerência física no §5; funções `icado`/`pendurada` em `f2_prancha.py` |
 | Fase 2 (Cargueiro): fotografias v1 com piso de ponta a ponta — ninguém caía (sem KO) | desenhei o palco antes de decidir por onde se cai | ao montar CADA cena, primeiro marque as saídas para KO (≥ 2 lados, visíveis: mar, fenda, porão) e só depois o resto |
 | 3 rodadas de correção depois do playtest | a composição só foi "lida" pelo usuário | checklist do §5 antes de mandar |
 | Evento da biblioteca inútil e travando na fase (drone G09) | evento entrou na lista sem ser provado na fase | bloco E: provar cada evento na fase; senão sai da lista |
